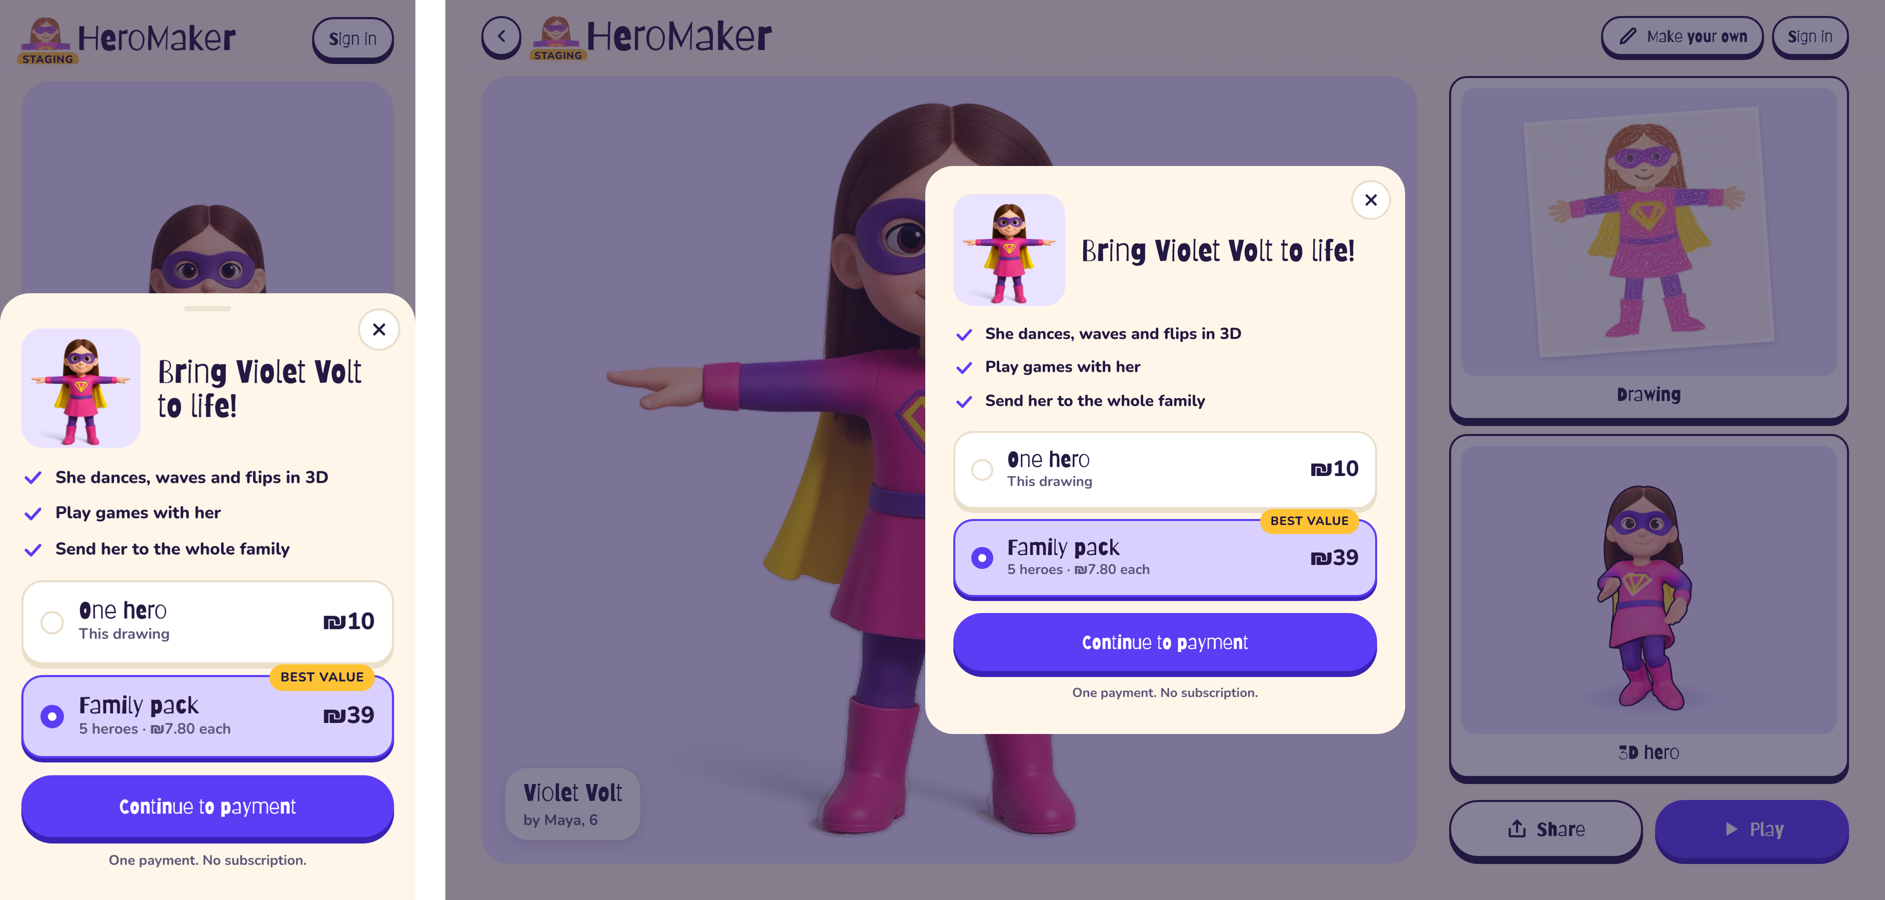
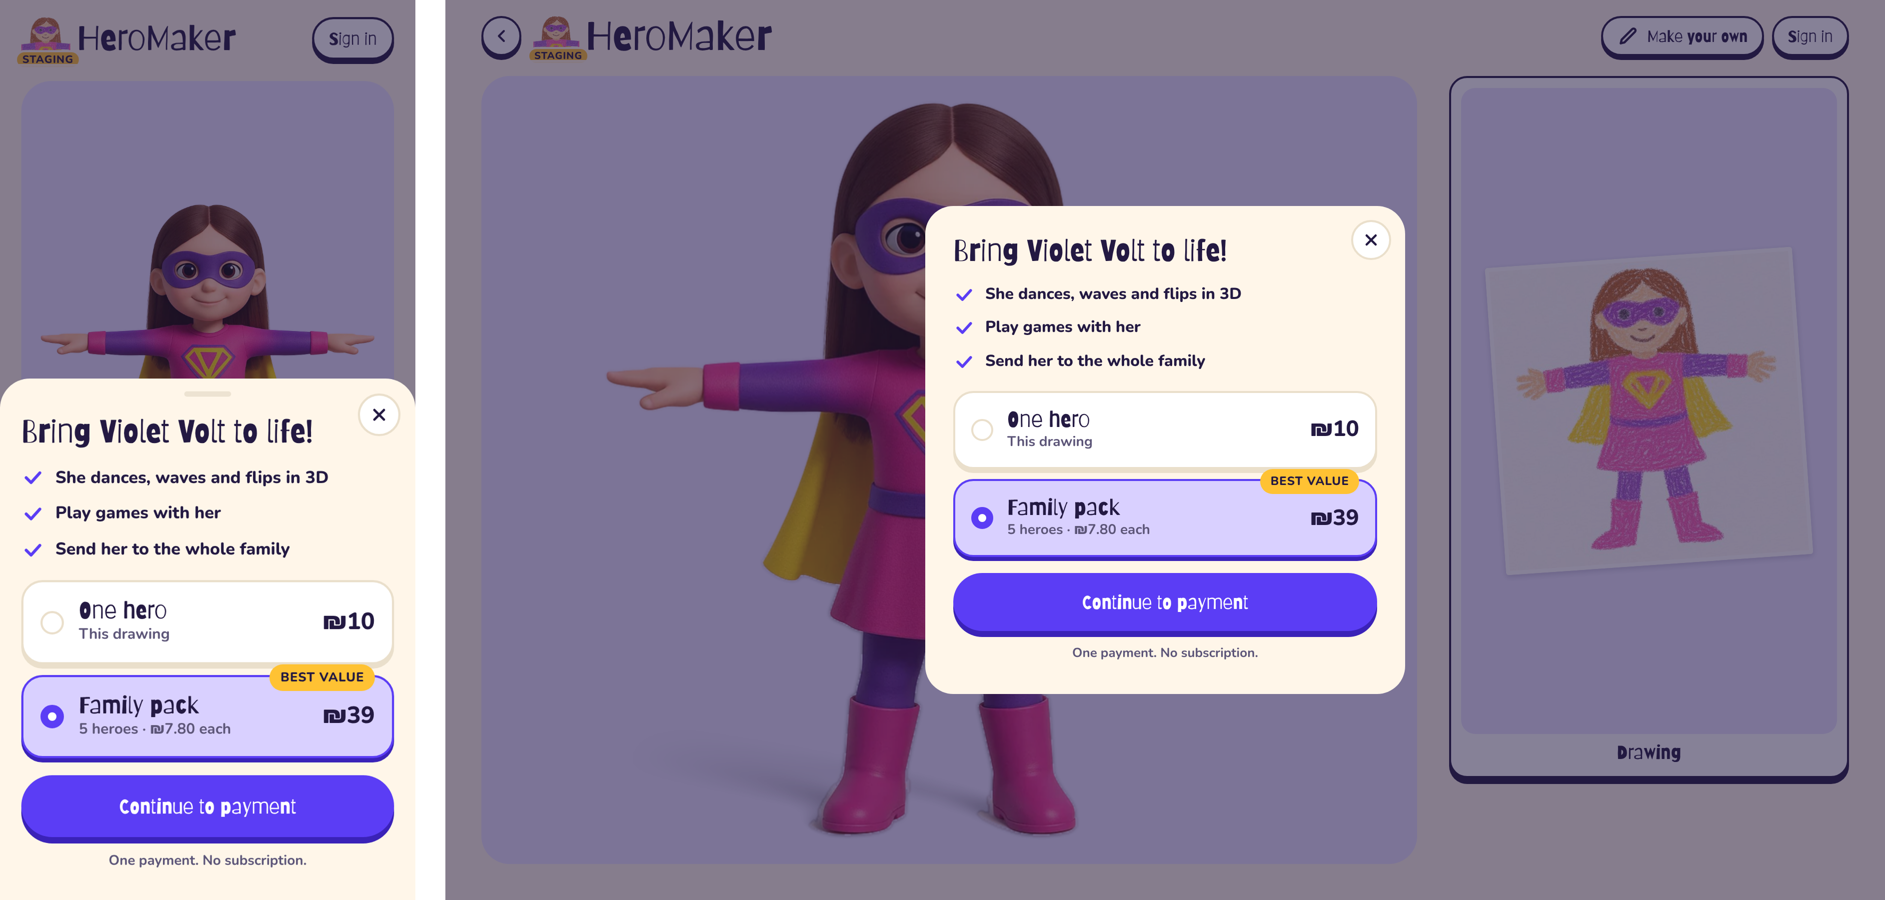
Paywall R3 revised: no thumb, painting behind, name once (Dana's gate)
Claude-Session: https://claude.ai/code/session_01XZmifdbmRRBBAErrtve1b5

diff --git a/docs/design/proposals/paywall.md b/docs/design/proposals/paywall.md
@@ -87,3 +87,15 @@ recommended, then one CTA, then the fine print.
 running. Credits come from the webhook only, as now.
 
 No red, no "failed", no "credits" word.
+
+### Round 3, revised after Dana's gate review (2026-11-24)
+
+- No hero thumbnail in the sheet. The painting behind is the picture, so the
+  thumbnail duplicated it and nested a frame in a frame.
+- Behind the sheet: the PAINTING (this is the moment it exists). There is no
+  3D hero tile, because it does not exist yet. The name card, Share and Play
+  are hidden while the sheet is open.
+- The name appears once, in the heading.
+- The desktop dialog is 480 px, centred on the screen (measured).
+- This is still a mock-up on staging, not a built screen. Raz sees it as a
+  labelled proposal. Dana measures the real build on staging.
